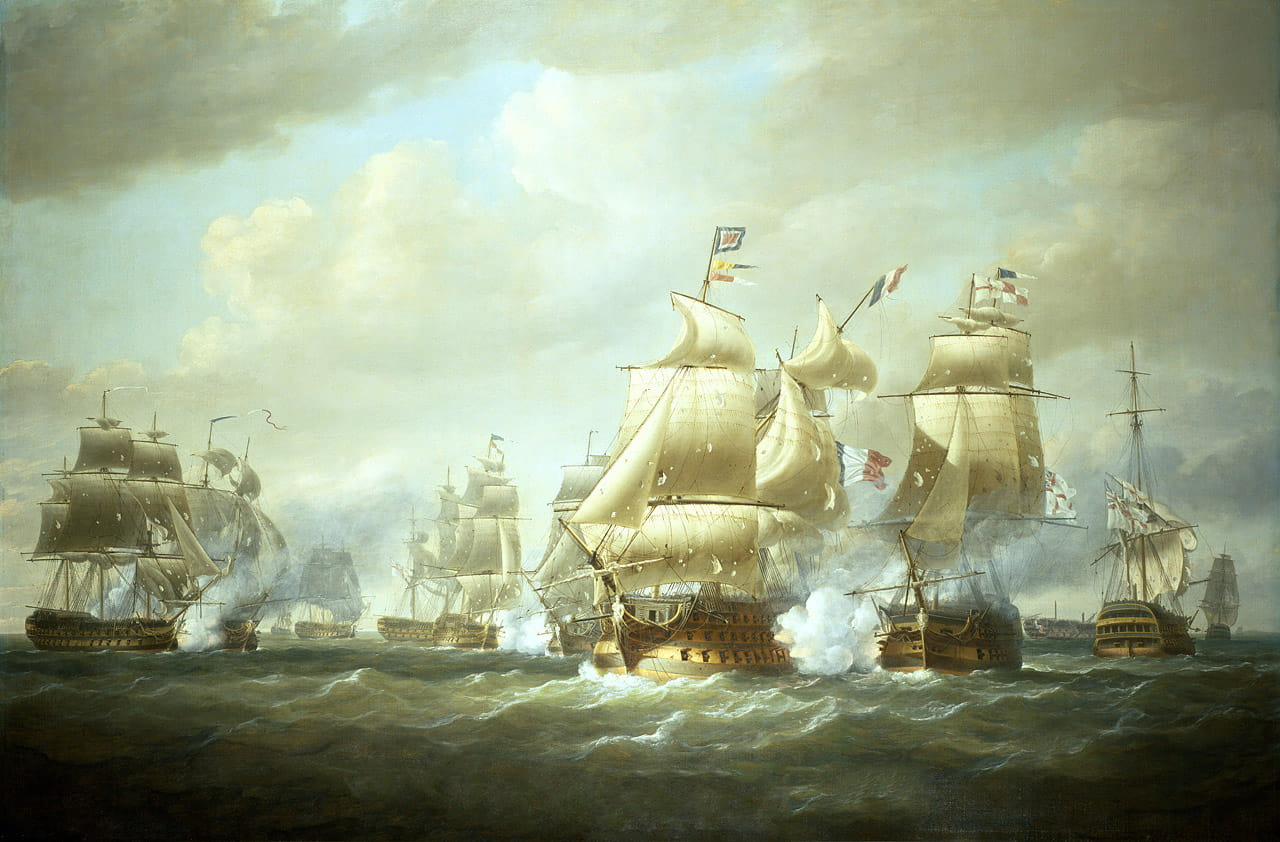
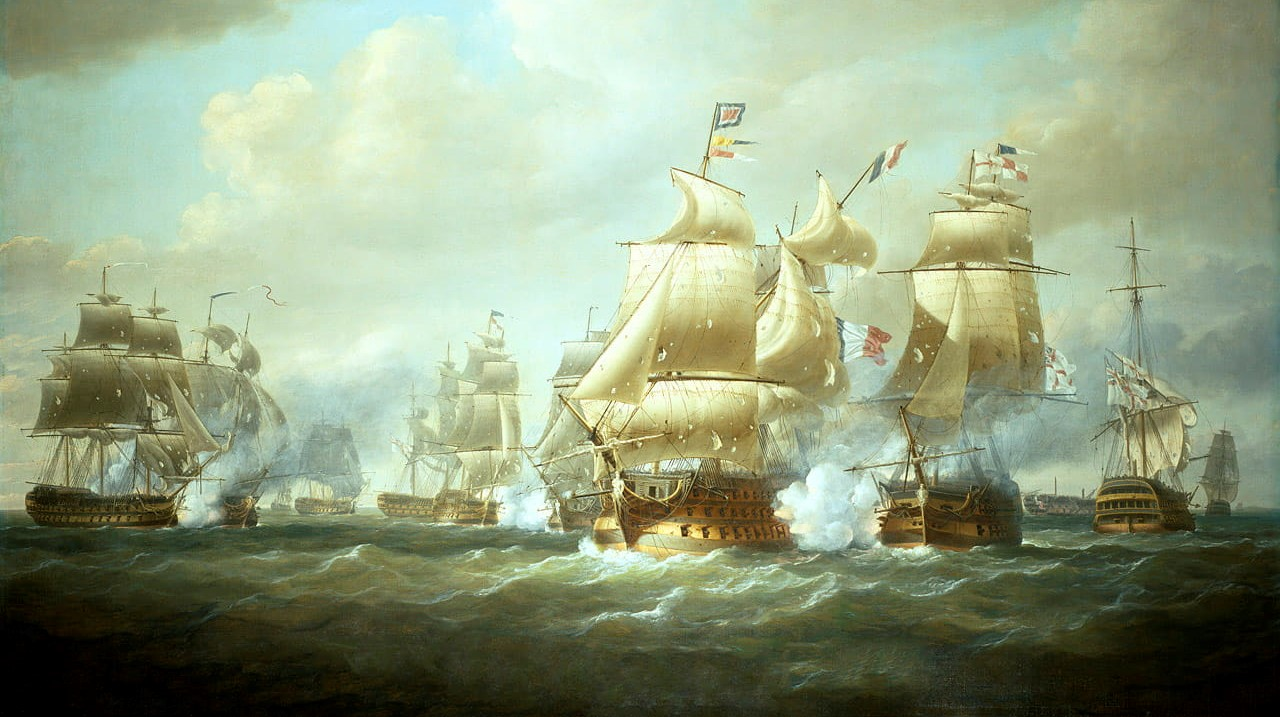
Add cropped version of background image

diff --git a/views/layout.html b/views/layout.html
@@ -18,7 +18,7 @@
         * Additional styling to add background image
         */
         body {
-            background-image: url('https://p1.pxfuel.com/preview/961/471/742/battke-battle-battle-of-san-domingo-clouds.jpg');
+            background-image: url('assets/images/naval_battle_painting.jpg');
             background-size: 100%;
         }
 
